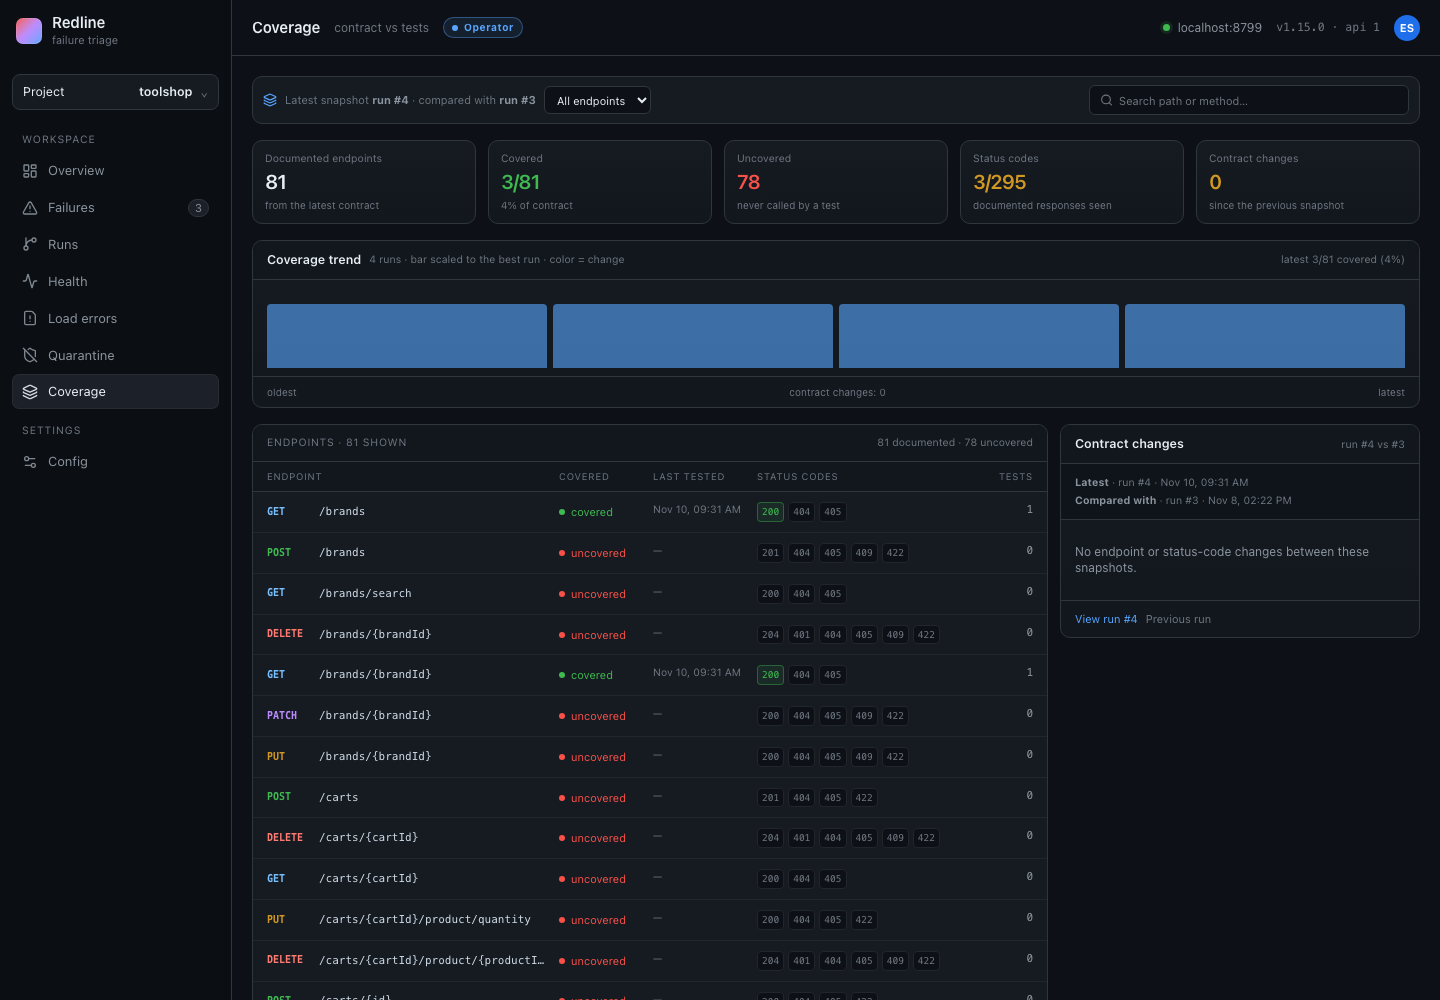
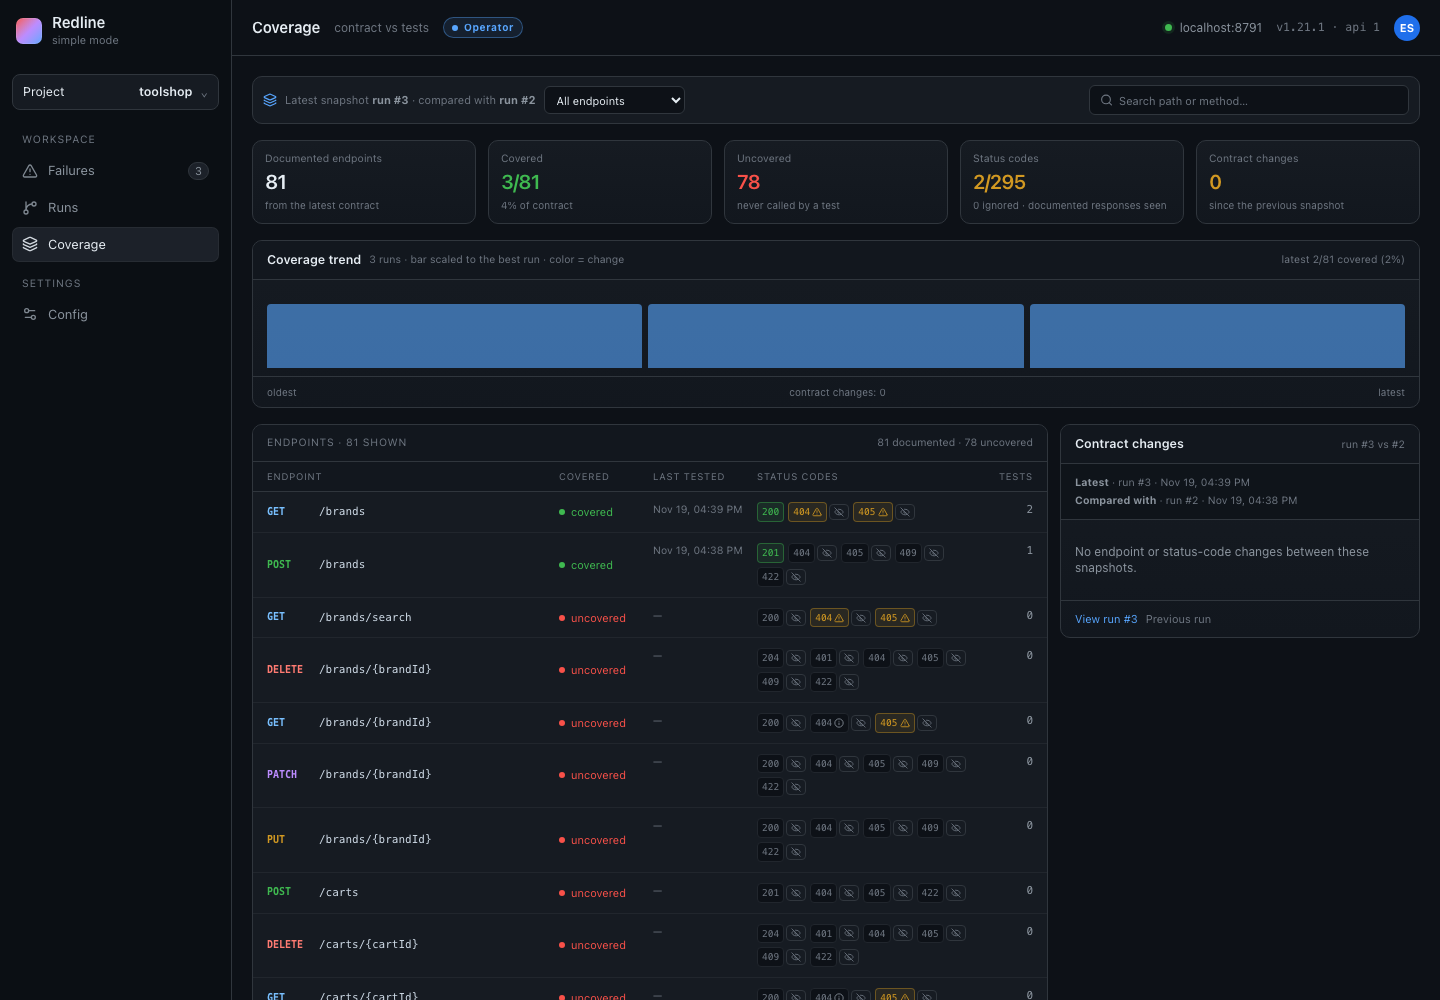
docs: focus README on the simple workflow

diff --git a/README.md b/README.md
@@ -18,19 +18,20 @@ evidence — backend bug, test bug, environment or flaky — before you open the
   backend regression from an outdated test.
 - **Rules first, AI optional.** Deterministic rules run free on every run; Claude is only asked when the
   rules cannot decide.
-- **Tracks the suite over time.** Flake rate, slow tests, quarantines and contract coverage.
+- **Verified fixes.** Prove a fix by rerunning the test, then open a PR with the evidence and patch.
+- **Tracks every run.** Compare runs, see which tests changed and which failures came back.
 
 ## A quick look
 
-| Overview | Test health |
+| Failures | Runs |
 | --- | --- |
-| [![Overview](docs/screenshots/overview.png)](docs/screenshots/overview.png) | [![Test health](docs/screenshots/health.png)](docs/screenshots/health.png) |
-| Open failures, recent runs and coverage at a glance. | Pass/flake trends, slow tests and regressions. |
+| [![Failures](docs/screenshots/failures.png)](docs/screenshots/failures.png) | [![Runs](docs/screenshots/runs.png)](docs/screenshots/runs.png) |
+| Grouped failures with evidence and a suggested cause. | Every run with its branch, results and duration. |
 
-| Suite load errors | Config and API keys |
+| Coverage | Config |
 | --- | --- |
-| [![Suite load errors](docs/screenshots/load-errors.png)](docs/screenshots/load-errors.png) | [![Config](docs/screenshots/config.png)](docs/screenshots/config.png) |
-| Broken imports and setup failures, grouped separately. | Contract sources, keys and notifications. |
+| [![Coverage](docs/screenshots/coverage.png)](docs/screenshots/coverage.png) | [![Config](docs/screenshots/config.png)](docs/screenshots/config.png) |
+| Contract endpoints versus the calls your tests recorded. | Contract sources, AI usage and API keys. |
 
 [See all screenshots →](docs/screenshots/README.md)
 
@@ -124,13 +125,10 @@ Full deployment and GitHub Actions guides: [deploy](docs/deploy.md) and [PR comm
 
 ## What you get
 
-- **Failures and triage** — grouped failures, owner, status, aging, run history and evidence.
-- **Runs and comparison** — every run, changed tests, retries and artifacts.
-- **Test health** — pass/flake rate, flips, slowest tests, duration regressions.
-- **Suite load errors** — failures before a test can run, classified by cause.
-- **Quarantine** — owner, reason, expiry calendar and evidence-based suggestions.
-- **Coverage** — contract endpoints vs recorded calls.
-- **Config** — contract sources, AI usage and cost, API keys and Discord notifications.
+- **Failures and triage** — grouped failures, evidence, suggested cause and run history.
+- **Runs and comparison** — every run, changed tests, results and the previous run.
+- **Coverage** — contract endpoints, recorded calls, status-code gaps and ignored codes.
+- **Config** — contract sources, AI usage and cost, and API keys.
 
 [Feature details →](docs/features.md)
 
@@ -152,7 +150,6 @@ Everything has a working default. The settings you are most likely to change:
 | `PORT` | `8787` | HTTP port. |
 | `REDLINE_API_KEY` | empty | Bootstrap key for `/api/...`. |
 | `STATUS_FROM` | `ci` | Which runs may open or close a failure: `ci`, `local`, `all`. |
-| `REDLINE_PROFILE` | `full` | `full` shows every page; `simple` keeps Failures, Runs, Coverage and Config. |
 | `RETENTION_DAYS` | `30` | Delete old test details and artifacts (`0` = never). |
 | `TIMEZONE` | `Asia/Jakarta` | Time zone for responses and logs. |
 | `MAX_REPORT_MB` | `50` | Largest accepted Playwright report. |
@@ -183,7 +180,6 @@ Full list and examples: [`.env.example`](.env.example).
 | `npx redline fix <id>` | Turn a proven test fix into a branch and a PR; reuses a stored proof unless `--force`, and `--dry-run` prints the plan (`--base=<branch>` overrides `main`). |
 | `npx redline impact schemas/brand.ts` | Tests affected by a file or endpoint. |
 | `npx redline score` | How often Redline's guesses were right, plus auto-accept calibration (`--project=<name>` scopes it). |
-| `npx redline shadow <id>` | Evaluate a learned rule without changing analyses; `shadow --stats [--project=<name>]` shows agreement, `shadow --promote <id>` proposes a ready rule. |
 | `npx redline comment` | Create or update a sticky PR comment. |
 | `npx redline analyze --run 112` | Analyze an existing run without rerunning tests. |
 

diff --git a/docs/screenshots/README.md b/docs/screenshots/README.md
@@ -1,14 +1,8 @@
 # Screenshots
 
-These screenshots use a small demo project (`toolshop`) with four runs, three failure groups, a quarantine and three suite load errors. Names such as Rina, Budi and the webhook are demo data.
+These screenshots use a small demo project (`toolshop`) with three runs and three failure groups. Names and webhook URLs are demo data.
 
-## Overview
-
-[![Overview](overview.png)](overview.png)
-
-Open failures, flake rate, recent runs, contract coverage and the quarantine suggestions in one place.
-
-## Failures and triage
+## Failures
 
 [![Failures and triage](failures.png)](failures.png)
 
@@ -26,35 +20,17 @@ Every uploaded run with its branch, commit, source, result counts and duration.
 
 A single run shows the comparison with the previous run, changed tests, failures, retries and artifacts.
 
-## Test health
-
-[![Test health](health.png)](health.png)
-
-Pass/flake trends, slowest tests, most failed tests and duration regressions for the selected window.
-
-## Suite load errors
-
-[![Suite load errors](load-errors.png)](load-errors.png)
-
-Errors that happen before a test can run — missing packages, broken imports, syntax errors or an unreachable service — are grouped and classified separately from test failures.
-
-## Quarantine
-
-[![Quarantine](quarantine.png)](quarantine.png)
-
-Active exceptions with an owner, reason and expiry. The calendar marks the days when quarantines end.
-
 ## Coverage
 
 [![Coverage](coverage.png)](coverage.png)
 
-Documented OpenAPI endpoints compared with the calls recorded by the Playwright fixture, including status codes and contract changes.
+Documented OpenAPI endpoints compared with the calls recorded by the Playwright fixture, including status codes, hints, ignored codes and contract changes.
 
 ## Config
 
 [![Config](config.png)](config.png)
 
-Contract sources, API keys for CI and other projects, and Discord notifications — all stored in Neo4j and applied without a restart.
+Contract sources, AI usage and cost, API keys and notifications — all stored in Neo4j and applied without a restart.
 
 ---
 
